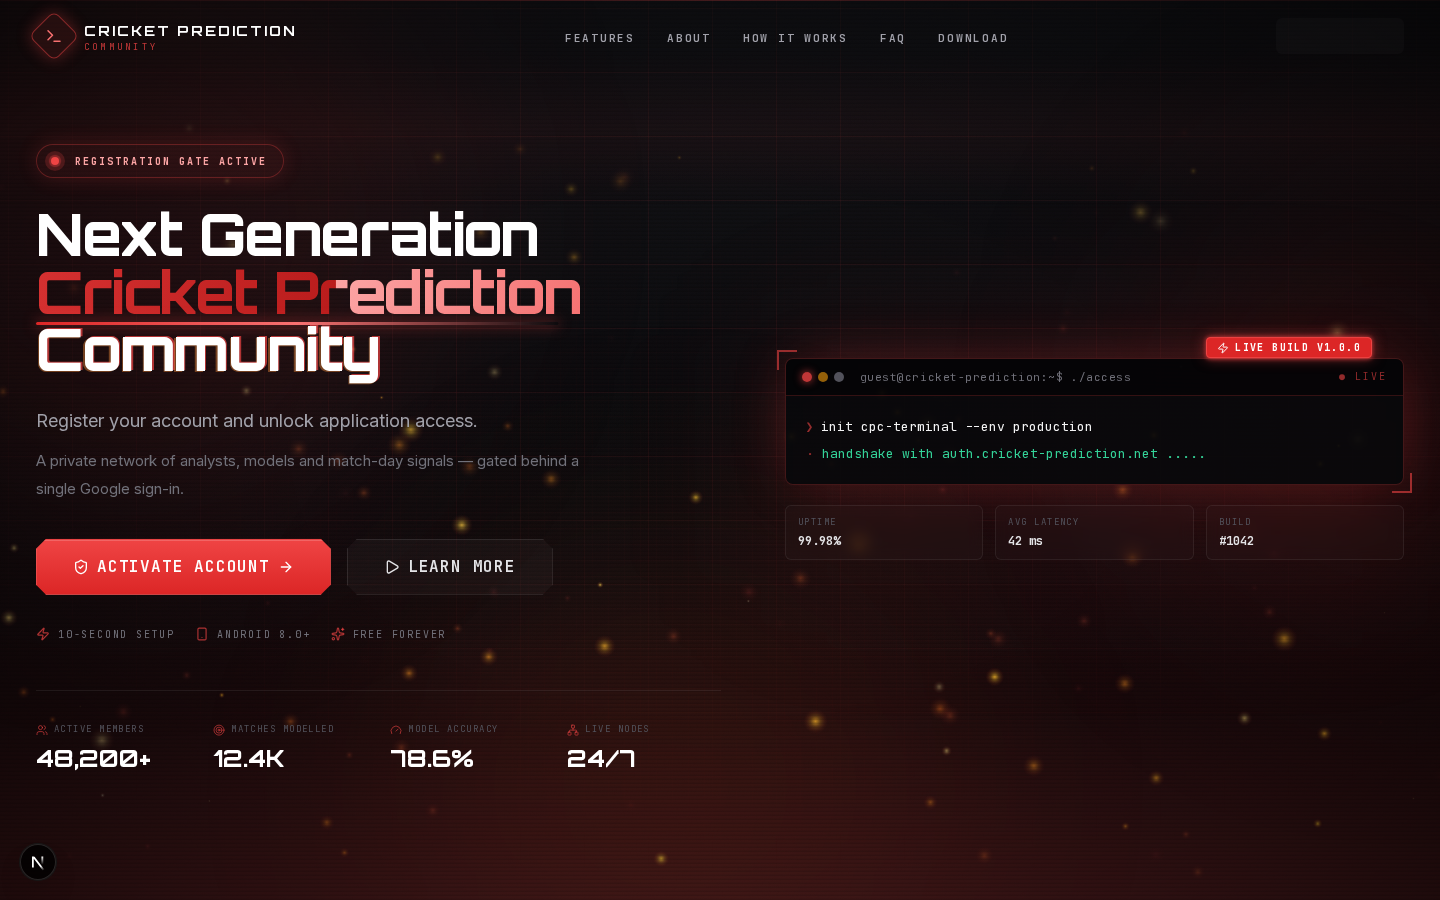
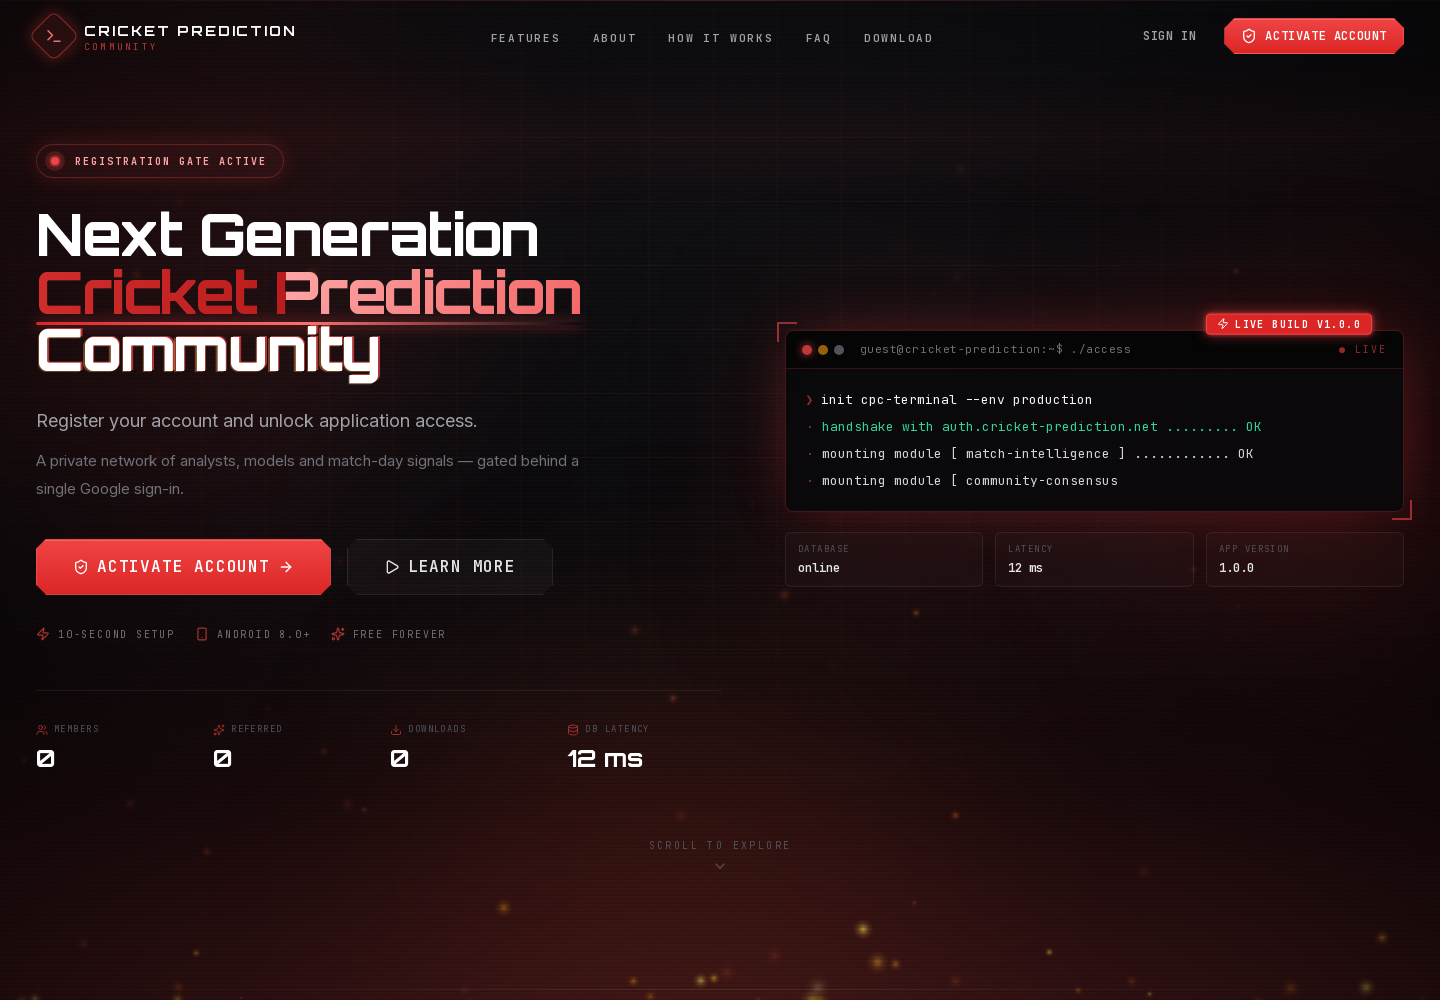
Refresh screenshots for the measured-data build
- 01-landing-hero: the stat strip now reads 0 / 0 / 0 with latency measured
  live, replacing the fabricated 48,200 / 12.4K / 78.6% / 24-7 tiles.
- 08-download-center and 09-download-specs: captured with a real session and
  no APK staged, showing the honest state - "Build pending" badge, "No build
  staged on this server", every unmeasurable spec reading "not set", and
  "SHA-256 unavailable".
- 20-contact-unconfigured: the contact page with no address configured. It
  says so instead of pointing at the reserved example.com domain.

A temporary next-auth session was minted with the real encode() helper to
reach the authenticated pages, since the demo login channel no longer exists.
The probe row was deleted afterwards; users and download_logs are both 0.

diff --git a/FILE_MANIFEST.md b/FILE_MANIFEST.md
@@ -204,7 +204,7 @@ Legend: 🎨 UI · ⚙ logic · 🔒 security-relevant · 📄 docs/config
 | 📄 `FILE_MANIFEST.md` | This file. |
 | 📄 `storage/apk/README.md` | Explains the private staging directory, why it is preferred over `public/`, and the `release.json` label format. |
 | 📄 `storage/apk/release.example.json` | Template for the optional build label. Only descriptive fields are read from it — size, SHA-256 and date are always measured from the APK itself. |
-| 📄 `docs/screenshots/*.png` | 21 captures taken from the running application: landing sections, auth, the guest gate, the unlocked Download Center, dashboard, the SSO fire handshake in three stages (early / full log / ACCESS GRANTED), the arrival burst, and mobile widths. |
+| 📄 `docs/screenshots/*.png` | 22 captures taken from the running application: landing sections, auth, the guest gate, the unlocked Download Center, dashboard, the SSO fire handshake in three stages (early / full log / ACCESS GRANTED), the arrival burst, and mobile widths. |
 
 ---
 
